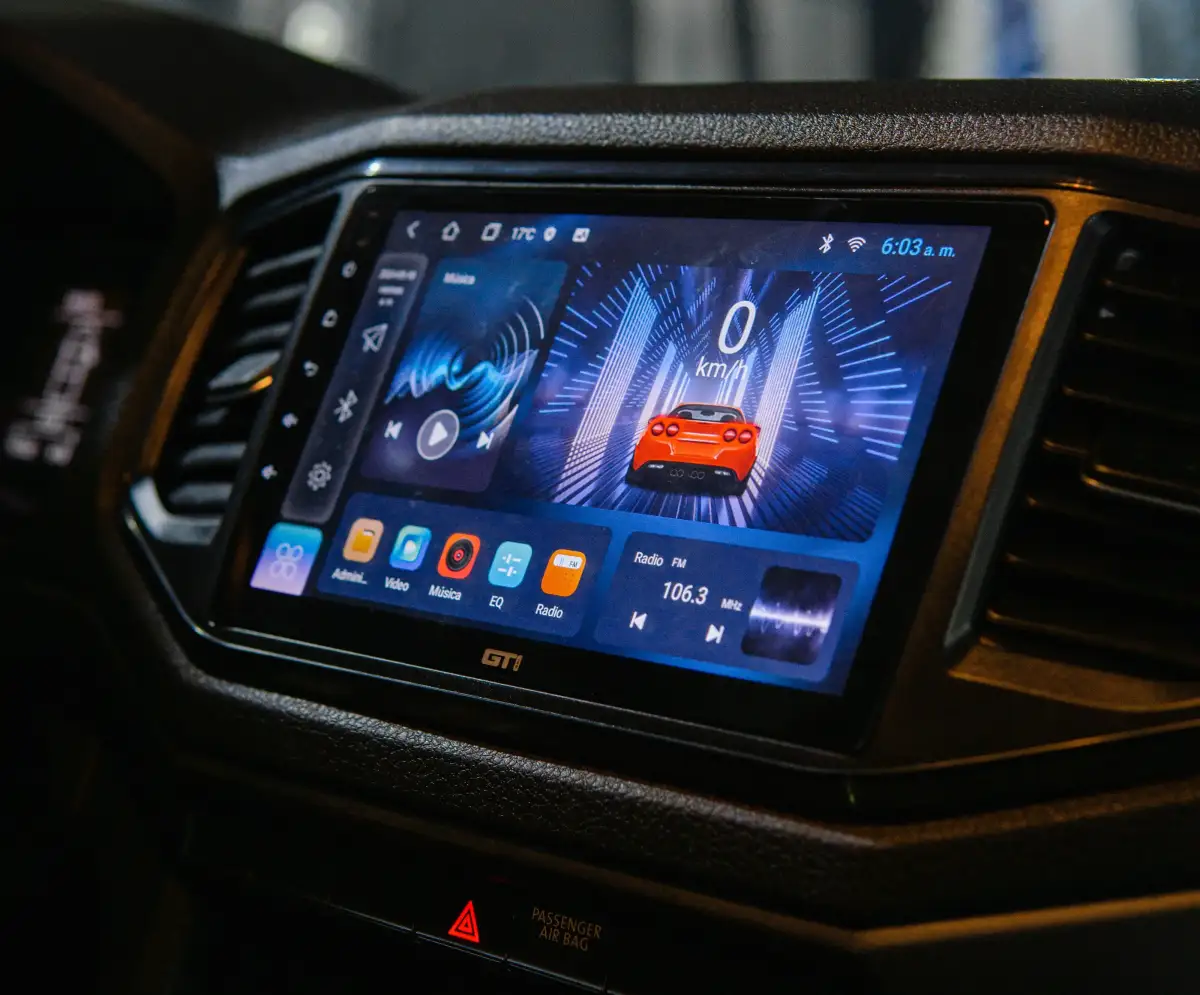
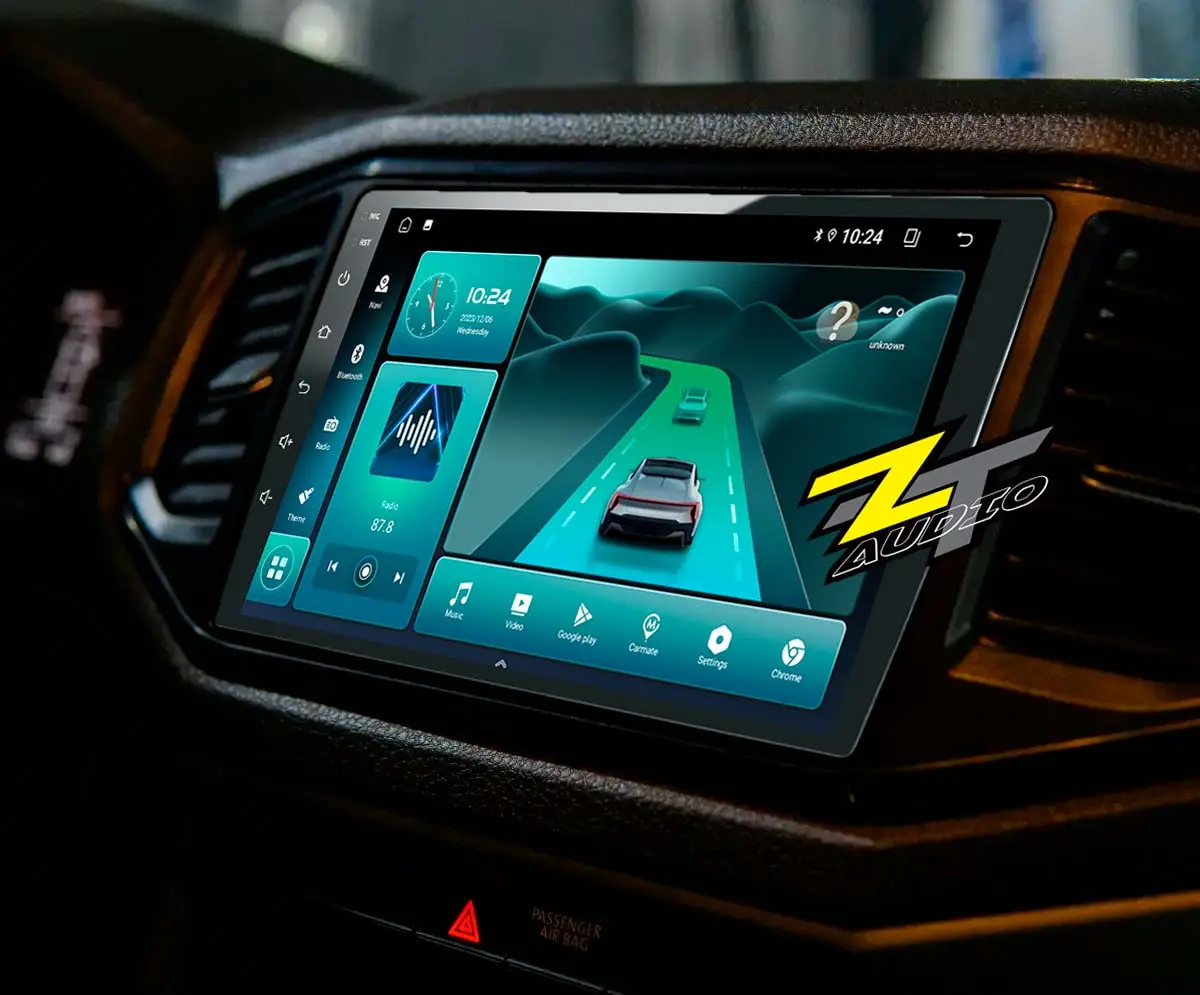
feat: actualización imágenes productos y mejoras páginas productos
- Imágenes actualizadas: radio ZTAudio, rastreador, logo Rastreadores
- Mejoras en /productos y /productos/[id]
- Ajustes en catálogo de servicios

diff --git a/src/content/services.ts b/src/content/services.ts
@@ -19,9 +19,10 @@ export const SERVICES: Service[] = [
     icon: '🔊',
     title: 'Car Audio',
     description:
-      'Radios Android 9" con CarPlay inalámbrico, Android Auto, GPS integrado, WiFi y pantalla QLED. Amplificadores, parlantes y subwoofers JBL y Pioneer. Instalación profesional con garantía absoluta y soporte técnico inmediato.',
+      'Radios Android 9" con CarPlay y Android Auto inalámbrico, GPS integrado, WiFi y pantalla QLED. Procesador Quadcore/Octacore de última generación. Amplificadores, parlantes y subwoofers JBL y Pioneer. Instalación profesional con garantía absoluta y soporte técnico inmediato.',
     features: [
-      'Radios Android: CarPlay, Android Auto y GPS integrado',
+      'CarPlay y Android Auto inalámbrico · GPS integrado',
+      'Procesador Quadcore/Octacore · Pantalla QLED nítida',
       'WiFi · Bluetooth · Radio FM · Reproducción 4K',
       'Amplificadores y subwoofers JBL / Pioneer',
       'Gran stock de biseles para la mayoría de modelos del mercado',
@@ -40,13 +41,15 @@ export const SERVICES: Service[] = [
     icon: '🪟',
     title: 'Polarizado Nanocarbón',
     description:
-      'Polarizado de nanocarbón de alta calidad en tonalidades al 5%, 20% y 35%. Cumplimos con la Ley de Polarizados vigente en Chile. Cada instalación incluye su sello en relieve y certificado legal.',
+      'Polarizado Nano Carbono de alto rendimiento en tonalidades 5%, 20% y 35%. Bloquea hasta el 99% de los rayos UV, no se decolora, no se vuelve violeta y no interfiere con señales electrónicas. Cumplimos con la Ley de Polarizados vigente en Chile. Cada instalación incluye sello en relieve y certificado legal.',
     features: [
       'Disponible al 5%, 20% y 35% de transmisión de luz',
+      'Bloquea hasta el 99% de los rayos UV y calor solar',
+      'No se decolora ni vuelve violeta con el tiempo',
+      'No interfiere con señales electrónicas ni GPS',
+      'Mejor visibilidad desde el interior del vehículo',
       'Sello en relieve incluido por vidrio (exigencia legal)',
       'Certificado legal de instalación incluido',
-      'Protección UV y reducción de calor solar',
-      'Garantía de instalación',
     ],
     image: '/images/services/polarizado-1.webp',
     images: [
@@ -63,31 +66,34 @@ export const SERVICES: Service[] = [
     icon: '🛡',
     title: 'Láminas de Seguridad',
     description:
-      'Films anti-impactos para vidrios, línea diseñada exclusivamente para automóviles. Protegen ante golpes, fragmentan el vidrio de forma segura y disuaden el robo. No requieren certificado de instalación.',
+      'Films de poliéster de alta resistencia grosor 4, 8 y 12 micras, disponibles en tintes 5% al 100%. Refuerzan la estructura del cristal, mantienen los fragmentos unidos ante impactos y protegen a los ocupantes en accidentes. Incluyen Sello y Certificado de instalación para tonos acorde a la ley.',
     features: [
-      'Films anti-impactos de alta resistencia',
-      'Fragmentación controlada ante golpes',
-      'Línea exclusiva para automóviles',
-      'Incoloras: no afectan visibilidad ni estética',
-      'No requieren certificado legal',
+      'Grosor 4, 8 y 12 micras — alta resistencia',
+      'Tintes disponibles: 5%, 20%, 35%, 50%, 70% y 100%',
+      'Rechazo a los rayos del sol 99%',
+      'Mantiene fragmentos de vidrio unidos ante impactos',
+      'Protege a los ocupantes en accidentes de tránsito',
+      'Incluye Sello y Certificado de instalación (tonos legales)',
     ],
     image: '/images/services/polarizado-2.webp',
     images: [
       '/images/services/polarizado-2.webp',
       '/images/services/polarizado-3.webp',
     ],
-    badge: 'Anti-impactos',
+    badge: 'Incluye certificado',
   },
   {
     icon: '🔐',
     title: 'Alarmas y Seguridad',
     description:
-      'Sistemas de alarma homologados con cortacorriente eléctrico, inmovilizador RFID y rastreo GPS. El cortacorriente impide el arranque del vehículo ante cualquier intento de robo. Antiportonazo, bloqueo de arranque y soporte técnico inmediato post-instalación.',
+      'Tres líneas de protección: Alarmas Anticlonación con bloqueo de motor, Inmobilizador Antiasalto por Presencia y GPS Rastreador 4G con app privada ilimitada. Solución completa contra robo, encerronas y portonazos.',
     features: [
-      'Cortacorriente eléctrico — bloqueo total del arranque',
-      'Inmovilizador RFID antirrobo inteligente',
-      'Antiportonazo · GPS rastreo en tiempo real',
-      'Alarmas homologadas Hawk certificadas',
+      '— Alarma Anticlonación: 2 controles, sirena 6 tonos, sensor de golpe y puertas',
+      'Bloqueo de motor · Conexión al cierre centralizado · Las mejores marcas',
+      '— Inmobilizador Antiasalto: señal 2.4Ghz, bloqueo automático al alejarte',
+      'Diseñado contra encerronas y portonazos — "Tu te alejas… él se detiene"',
+      '— GPS Rastreador 4G: app privada ilimitada, reportes automáticos',
+      'Exceso de velocidad · Geocerca · Subusuarios · +1.000 clientes suscritos',
     ],
     image: '/images/services/alarma-1.webp',
     images: [
